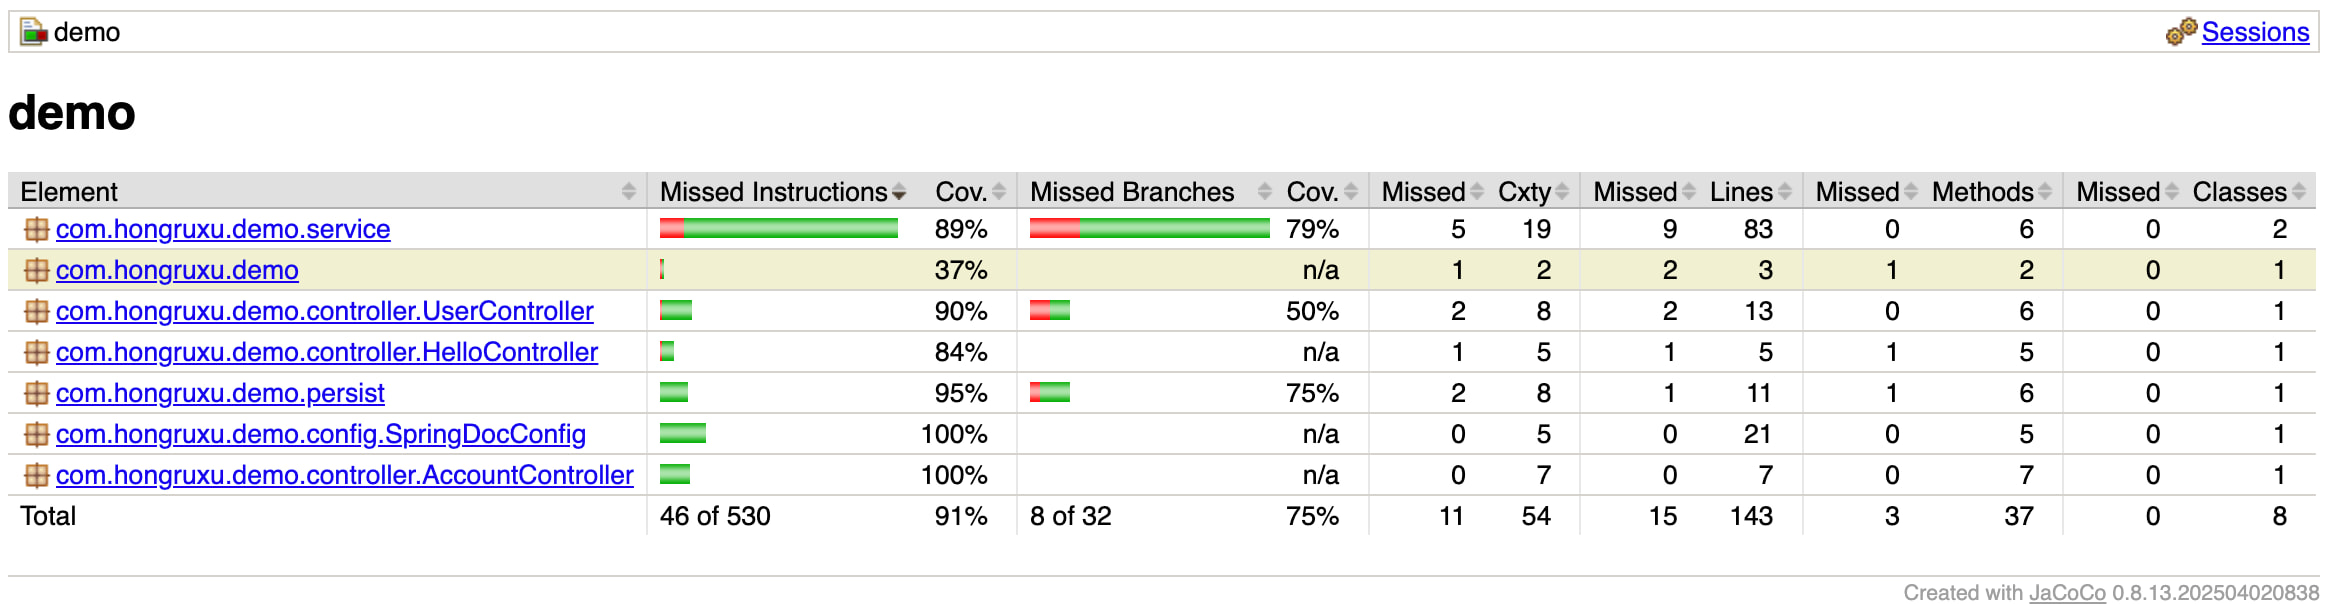
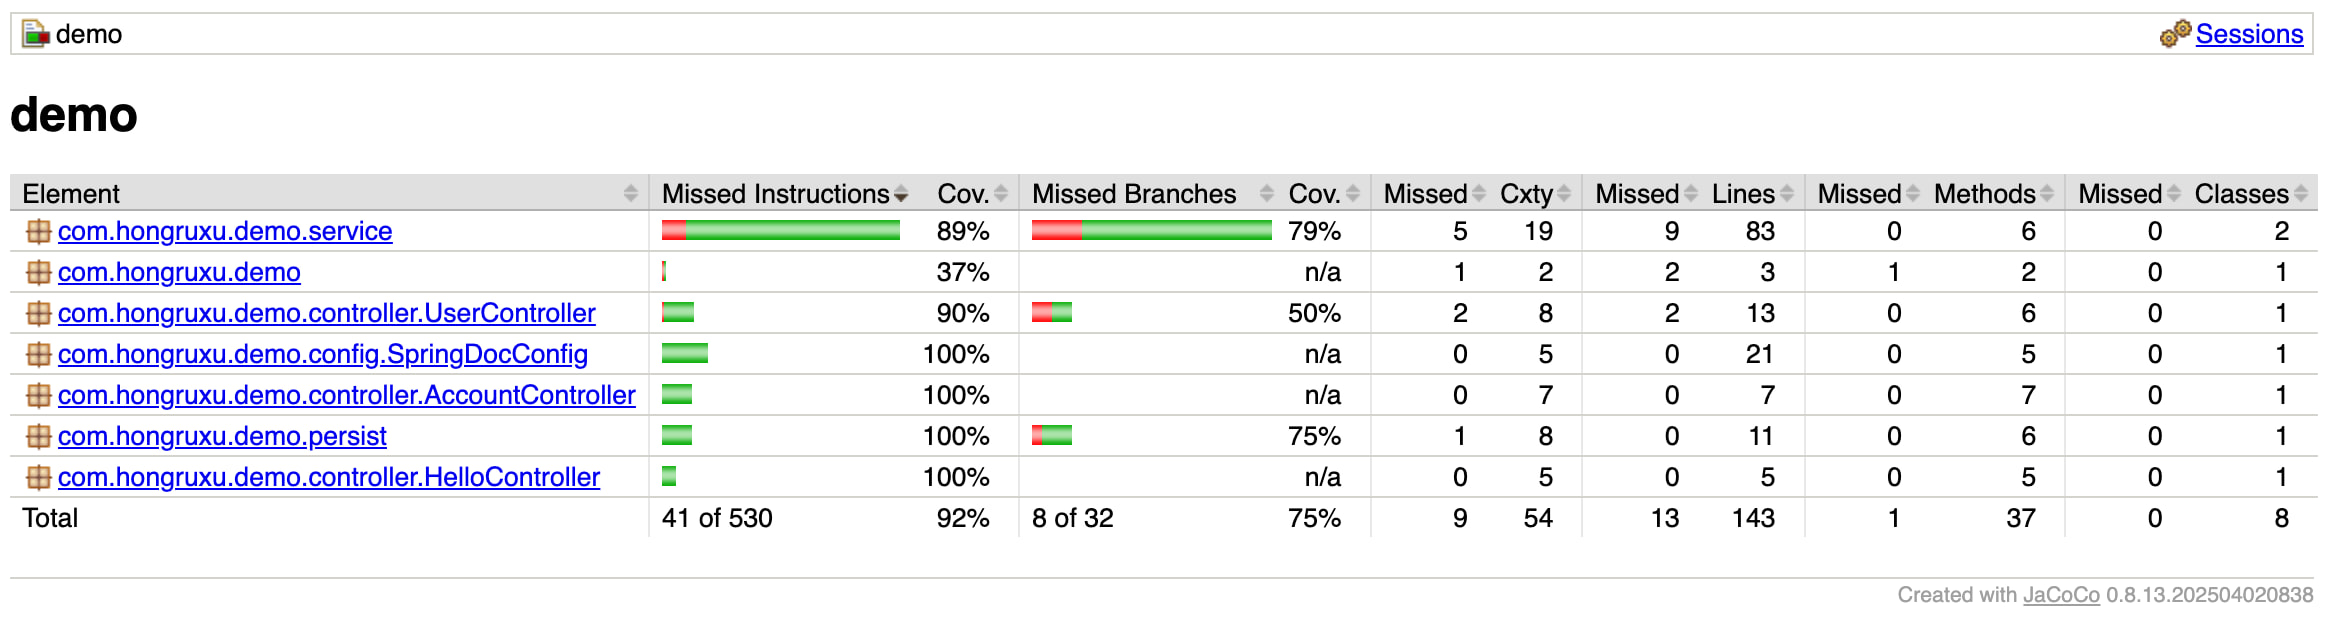
feat: 更新了一些测试用例

diff --git a/src/main/resources/static/test/transfer_demo.html b/src/main/resources/static/test/transfer_demo.html
@@ -3,7 +3,7 @@
 <head>
   <meta charset="UTF-8">
   <meta name="viewport" content="width=device-width, initial-scale=1.0">
-  <title>Vue模拟转账系统</title>
+  <title>模拟转账系统</title>
   <script src="https://unpkg.com/vue@3/dist/vue.global.js"></script>
   <script src="https://cdn.jsdelivr.net/npm/axios/dist/axios.min.js"></script>
   <link rel="stylesheet" href="https://cdnjs.cloudflare.com/ajax/libs/font-awesome/6.4.0/css/all.min.css">

diff --git a/src/test/java/com/hongruxu/demo/DemoApplicationTests.java b/src/test/java/com/hongruxu/demo/DemoApplicationTests.java
@@ -1,9 +1,9 @@
 package com.hongruxu.demo;
 
 import java.util.List;
+import java.util.Map;
 
 import static org.junit.jupiter.api.Assertions.assertEquals;
-import static org.junit.jupiter.api.Assertions.assertNotEquals;
 import static org.junit.jupiter.api.Assertions.assertNotNull;
 import static org.junit.jupiter.api.Assertions.assertThrows;
 import static org.junit.jupiter.api.Assertions.assertTrue;
@@ -23,9 +23,7 @@ import com.hongruxu.demo.entity.AccountTransfer;
 import com.hongruxu.demo.entity.Result;
 import com.hongruxu.demo.entity.TransferFlow;
 import com.hongruxu.demo.entity.User;
-import com.hongruxu.demo.mapper.UserMapper;
-import com.hongruxu.demo.service.AccountService;
-import com.hongruxu.demo.service.TransferType;
+
 
 
 
@@ -57,6 +55,11 @@ class DemoApplicationTests {
 		// 查询一条数据
 		String getResutl = helloController.get("test_one");
 		assertEquals(getResutl, "hello world!");
+
+		// 查询全部数据
+		Map<String,String> res = helloController.getAllValue();
+		assertNotNull(res);
+		assertTrue(res.size()>= 1);
 
 		// 修改一条数据
 		String updateResutl = helloController.addOrUpdate("test_one", "hello world 2 !");

diff --git a/src/main/java/com/hongruxu/demo/mapper/UserMapper.java b/src/main/java/com/hongruxu/demo/mapper/UserMapper.java
@@ -1,5 +1,7 @@
 package com.hongruxu.demo.mapper;
 
+import java.util.List;
+
 import org.apache.ibatis.annotations.Delete;
 import org.apache.ibatis.annotations.Insert;
 import org.apache.ibatis.annotations.Options;
@@ -8,8 +10,6 @@ import org.apache.ibatis.annotations.Select;
 import org.apache.ibatis.annotations.Update;
 
 import com.hongruxu.demo.entity.User;
-import java.util.List;
-
 
 public interface UserMapper {
 

diff --git a/src/main/java/com/hongruxu/demo/entity/User.java b/src/main/java/com/hongruxu/demo/entity/User.java
@@ -2,10 +2,8 @@ package com.hongruxu.demo.entity;
 
 import io.swagger.v3.oas.annotations.media.Schema;
 import lombok.Data;
-import lombok.ToString;
 
 @Data 
-@ToString
 @Schema(description = "用户模型")
 public class User {
     
